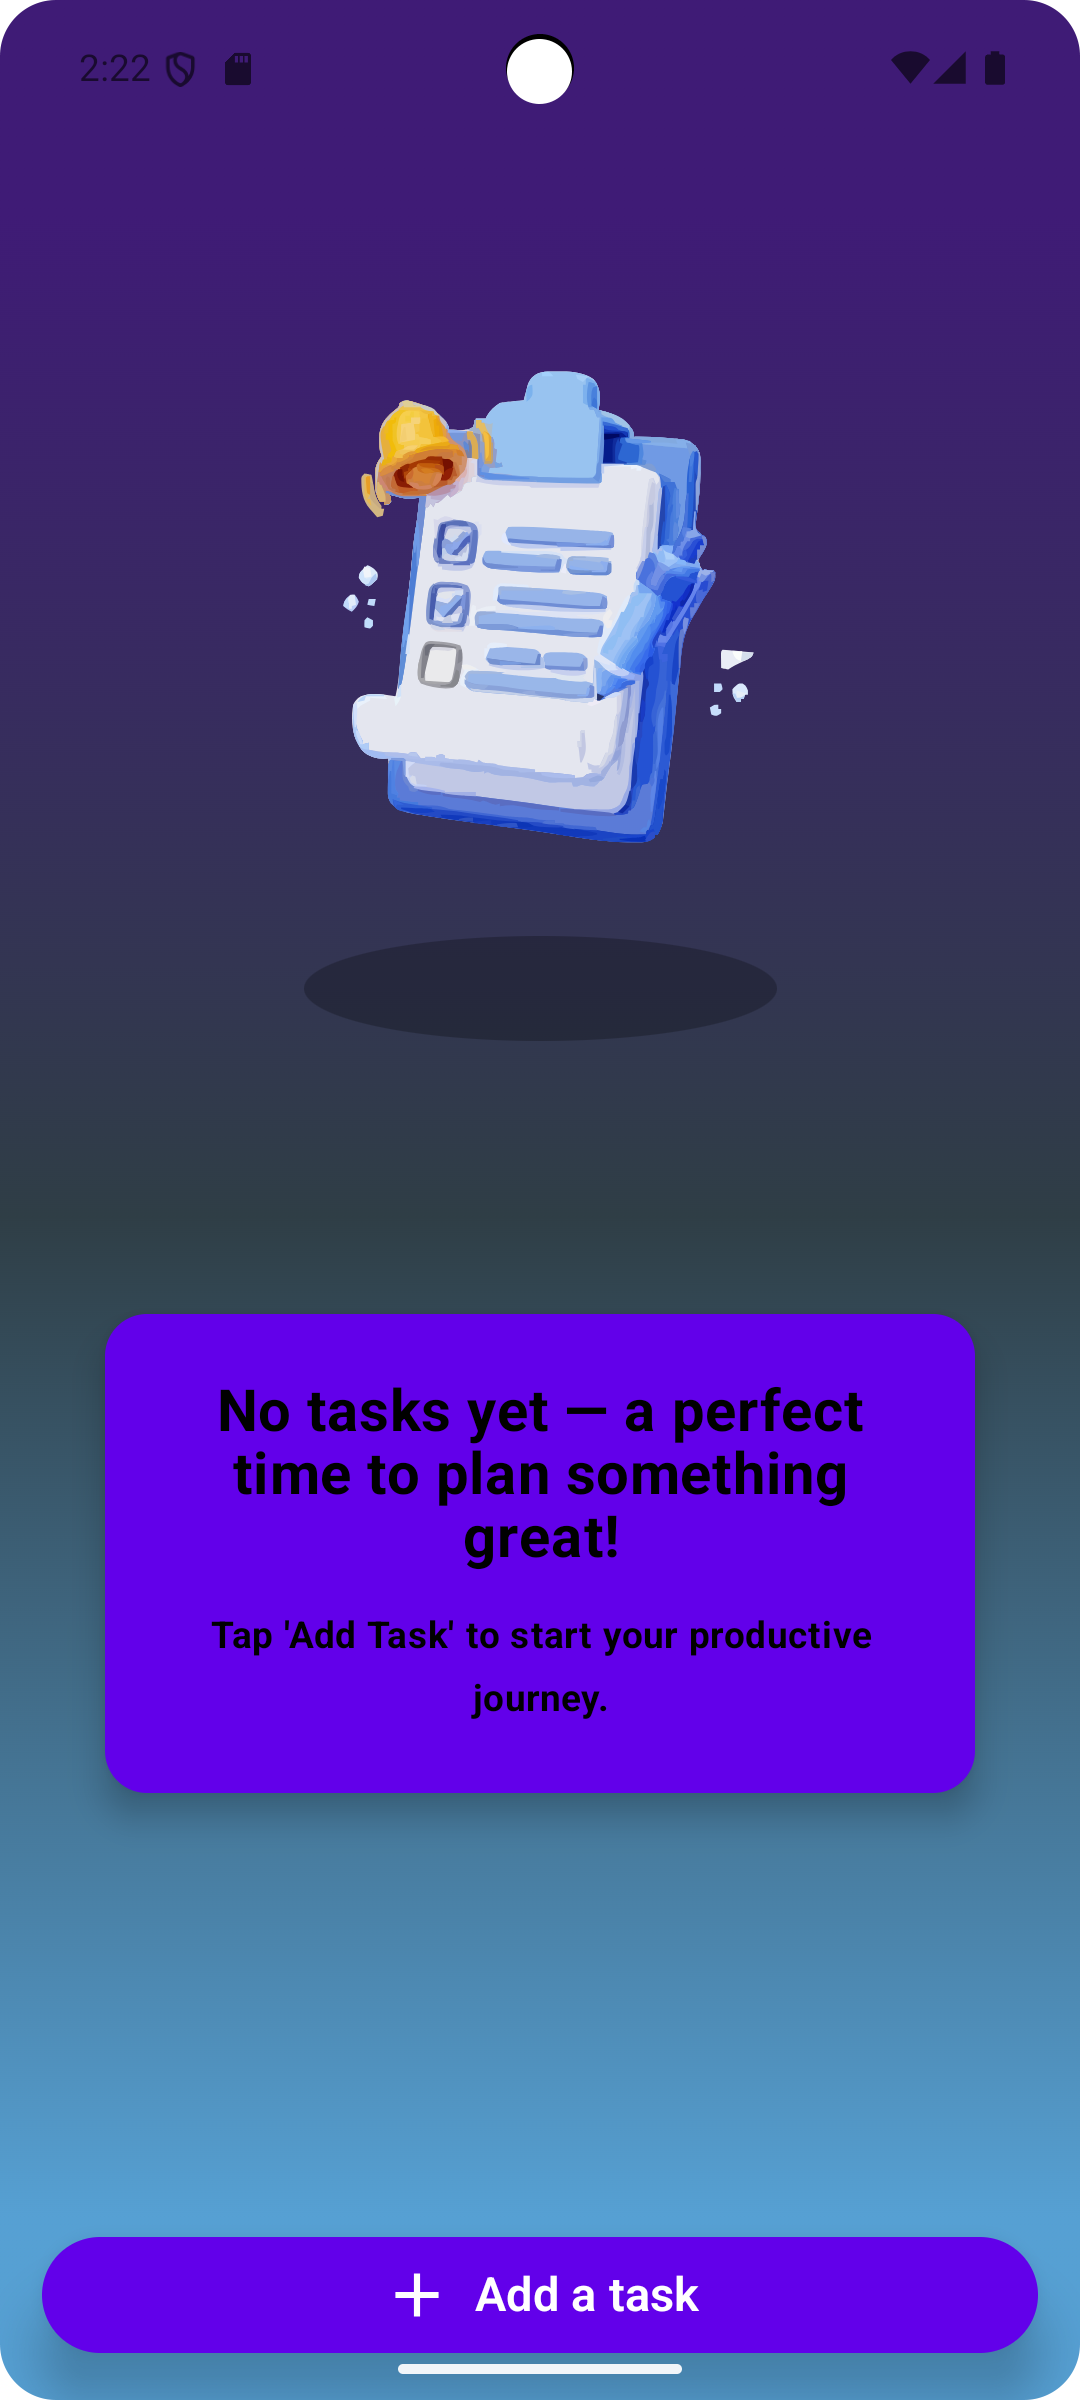
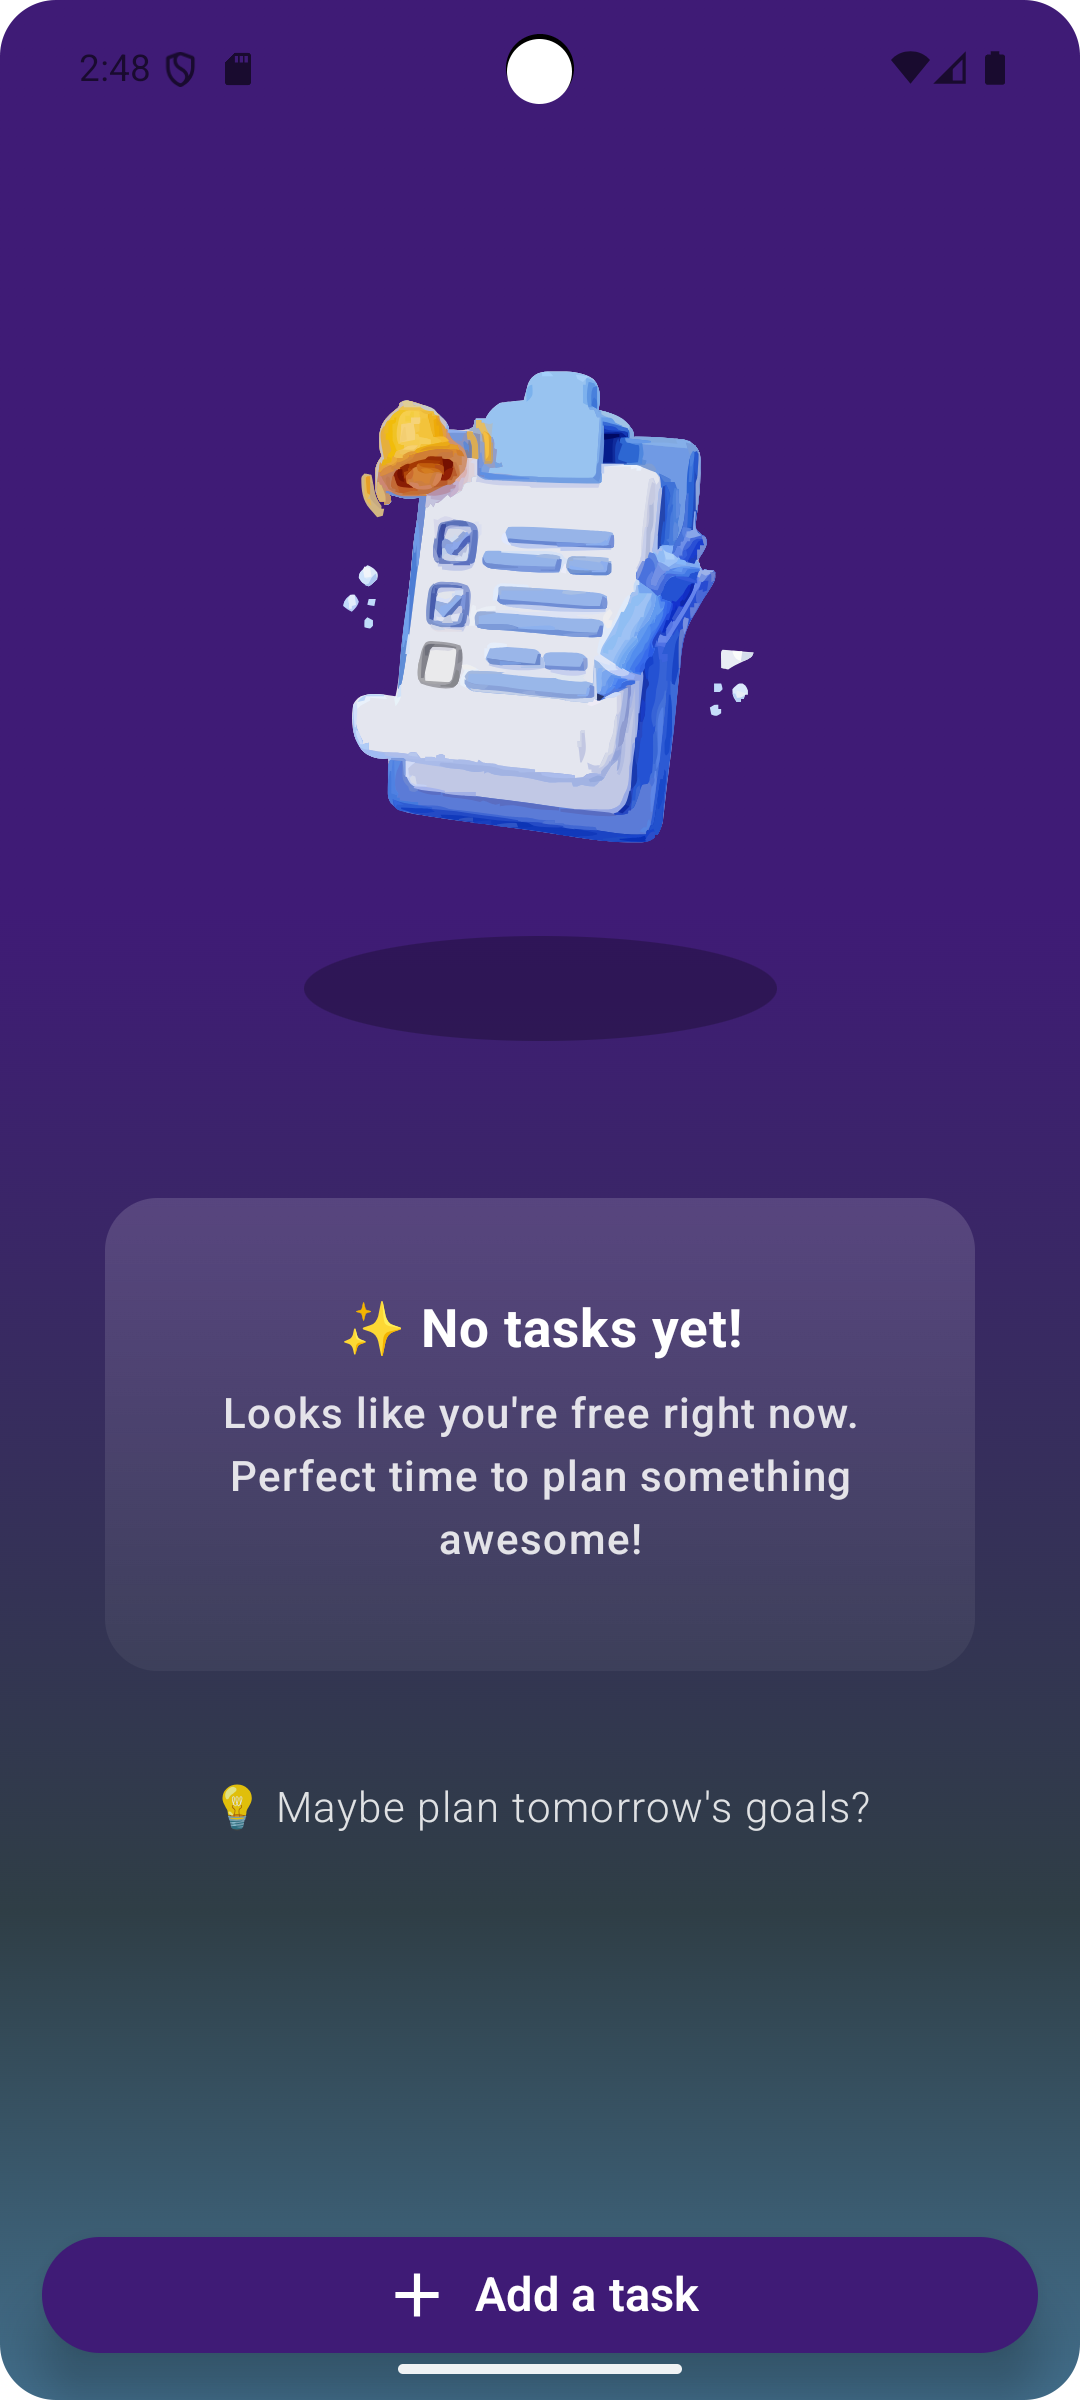
updated the home screen ui

diff --git a/app/src/main/java/com/example/todolist/ToDoList.kt b/app/src/main/java/com/example/todolist/ToDoList.kt
@@ -1,4 +1,4 @@
-package com.example.todolist.ui
+package com.example.todolist
 
 import androidx.compose.animation.AnimatedContent
 import androidx.compose.animation.ExperimentalAnimationApi
@@ -39,8 +39,6 @@ import androidx.compose.material.icons.filled.Edit
 import androidx.compose.material3.AlertDialog
 import androidx.compose.material3.Button
 import androidx.compose.material3.ButtonDefaults
-import androidx.compose.material3.Card
-import androidx.compose.material3.CardDefaults
 import androidx.compose.material3.Checkbox
 import androidx.compose.material3.DropdownMenuItem
 import androidx.compose.material3.ExperimentalMaterial3Api
@@ -51,9 +49,12 @@ import androidx.compose.material3.IconButton
 import androidx.compose.material3.OutlinedButton
 import androidx.compose.material3.OutlinedTextField
 import androidx.compose.material3.Text
+import androidx.compose.material3.TopAppBar
+import androidx.compose.material3.TopAppBarDefaults
 import androidx.compose.runtime.Composable
 import androidx.compose.runtime.LaunchedEffect
 import androidx.compose.runtime.getValue
+import androidx.compose.runtime.mutableIntStateOf
 import androidx.compose.runtime.mutableStateOf
 import androidx.compose.runtime.remember
 import androidx.compose.runtime.setValue
@@ -63,13 +64,11 @@ import androidx.compose.ui.draw.scale
 import androidx.compose.ui.graphics.Brush
 import androidx.compose.ui.graphics.Color
 import androidx.compose.ui.res.painterResource
-import androidx.compose.ui.text.font.FontStyle
 import androidx.compose.ui.text.font.FontWeight
 import androidx.compose.ui.text.style.TextAlign
 import androidx.compose.ui.tooling.preview.Preview
 import androidx.compose.ui.unit.dp
 import androidx.compose.ui.unit.sp
-import com.example.todolist.R
 import kotlinx.coroutines.delay
 
 
@@ -79,12 +78,13 @@ data class ListItems(val id:Int,
                      var completed: Boolean = false,
                      var isEditing:Boolean = false)
 
-@OptIn(ExperimentalAnimationApi::class)
+@OptIn(ExperimentalAnimationApi::class, ExperimentalMaterial3Api::class)
 @Composable
 fun ToDoListApp() {
     var sitems by remember { mutableStateOf(listOf<ListItems>()) }
     var showDialog by remember { mutableStateOf(false) }
     var itemName by remember { mutableStateOf("") }
+    var taskAdded by remember { mutableStateOf(false) }
     val options = listOf("Low", "Moderate", "High")
     var selectedOption by remember { mutableStateOf(options[0]) }
     var showEditorDialog by remember { mutableStateOf(false) }
@@ -98,10 +98,7 @@ fun ToDoListApp() {
         "Review your top 3 priorities."
     )
 
-    var currentIndex by remember { mutableStateOf(0) }
-
-    val visibleSuggestions = remember { mutableStateOf<List<String>>(emptyList()) }
-
+    var currentIndex by remember { mutableIntStateOf(0) }
 
     // Animated gradient
     val infiniteTransition = rememberInfiniteTransition(label = "gradientTransition")
@@ -130,16 +127,16 @@ fun ToDoListApp() {
         if (sitems.isNotEmpty()) {
             Row(
                 modifier = Modifier.fillMaxWidth()
-                    .padding(top = 12.dp),
-                horizontalArrangement = Arrangement.Start
+                    .padding(top = 15.dp),
+
             ) {
-                Text(
-                    text = "${sitems.size}",
-                    color = Color.Black,
-                    fontSize = 25.sp,
-                    fontStyle = FontStyle.Italic,
-                    fontWeight = FontWeight.Medium,
-                    modifier = Modifier.padding(vertical = 2.dp)
+                TopAppBar(
+                    title = {
+                        Text(text = "Your tasks (${sitems.size})", color = Color.White, textAlign = TextAlign.Center)
+                    },
+                    colors = TopAppBarDefaults.topAppBarColors(
+                        containerColor = Color.Transparent
+                    )
                 )
             }
         }
@@ -174,7 +171,7 @@ fun ToDoListApp() {
 
                 Box(
                     modifier = Modifier
-                        .padding(top = 80.dp, start = 24.dp, end = 24.dp) // ⬅ Moved it down
+                        .padding(top = 80.dp, start = 24.dp, end = 24.dp)
                         .fillMaxWidth()
                         .heightIn(min = 180.dp)
                         .background(
@@ -286,8 +283,12 @@ fun ToDoListApp() {
 
         }
 
-        // Add Item Button (FAB style)
-        AddTaskButton(onClick = { showDialog = true })
+        val shouldAnimateAddButton = sitems.isEmpty() && !taskAdded
+        AddTaskButton(
+            onClick = { showDialog = true },
+            shouldAnimate = shouldAnimateAddButton
+        )
+
 
         // Add Item Dialog
         if (showDialog) {
@@ -309,12 +310,14 @@ fun ToDoListApp() {
                                     val newItem = ListItems(
                                         id = sitems.size + 1,
                                         name = itemName,
-                                        urgency = selectedOption // Change this field in your data class
+                                        urgency = selectedOption
                                     )
                                     sitems = sitems + newItem
+                                    taskAdded = true
                                     showDialog = false
                                     itemName = ""
                                     selectedOption = ""
+
                                 }
                             },
                             enabled = itemName.isNotBlank() && selectedOption.isNotBlank()
@@ -481,15 +484,18 @@ fun ListItem(
 }
 
 @Composable
-fun AddTaskButton(onClick: () -> Unit) {
-    val infiniteTransition = rememberInfiniteTransition()
-    val scale by infiniteTransition.animateFloat(
+fun AddTaskButton(
+    onClick: () -> Unit,
+    shouldAnimate: Boolean
+) {
+    val scale by rememberInfiniteTransition().animateFloat(
         initialValue = 1f,
-        targetValue = 1.1f,
+        targetValue = if (shouldAnimate) 1.1f else 1f,
         animationSpec = infiniteRepeatable(
             animation = tween(800, easing = FastOutSlowInEasing),
             repeatMode = RepeatMode.Reverse
-        )
+        ),
+        label = "scaleAnimation"
     )
 
     Button(
@@ -501,26 +507,11 @@ fun AddTaskButton(onClick: () -> Unit) {
         elevation = ButtonDefaults.buttonElevation(12.dp),
         colors = ButtonDefaults.buttonColors(containerColor = Color(63, 27, 118))
     ) {
-        Icon(
-            Icons.Filled.Add,
-            contentDescription = "Add",
-            modifier = Modifier.size(28.dp),
-            tint = Color.White
-        )
-
+        Icon(Icons.Filled.Add, contentDescription = "Add", modifier = Modifier.size(28.dp), tint = Color.White)
         Spacer(modifier = Modifier.width(8.dp))
-
-        Text(
-            text = "Add a task",
-            fontSize = 18.sp,
-            fontWeight = FontWeight.SemiBold,
-            color = Color.White
-        )
+        Text("Add a task", fontSize = 18.sp, fontWeight = FontWeight.SemiBold, color = Color.White)
     }
-
 }
-
-
 
 @Preview(showBackground = true)
 @Composable

diff --git a/app/src/main/java/com/example/todolist/MainActivity.kt b/app/src/main/java/com/example/todolist/MainActivity.kt
@@ -8,7 +8,6 @@ import androidx.compose.foundation.layout.fillMaxSize
 import androidx.compose.material3.MaterialTheme
 import androidx.compose.material3.Surface
 import androidx.compose.ui.Modifier
-import com.example.todolist.ui.ToDoListApp
 import com.example.todolist.ui.theme.ToDoListTheme
 
 class MainActivity : ComponentActivity() {
